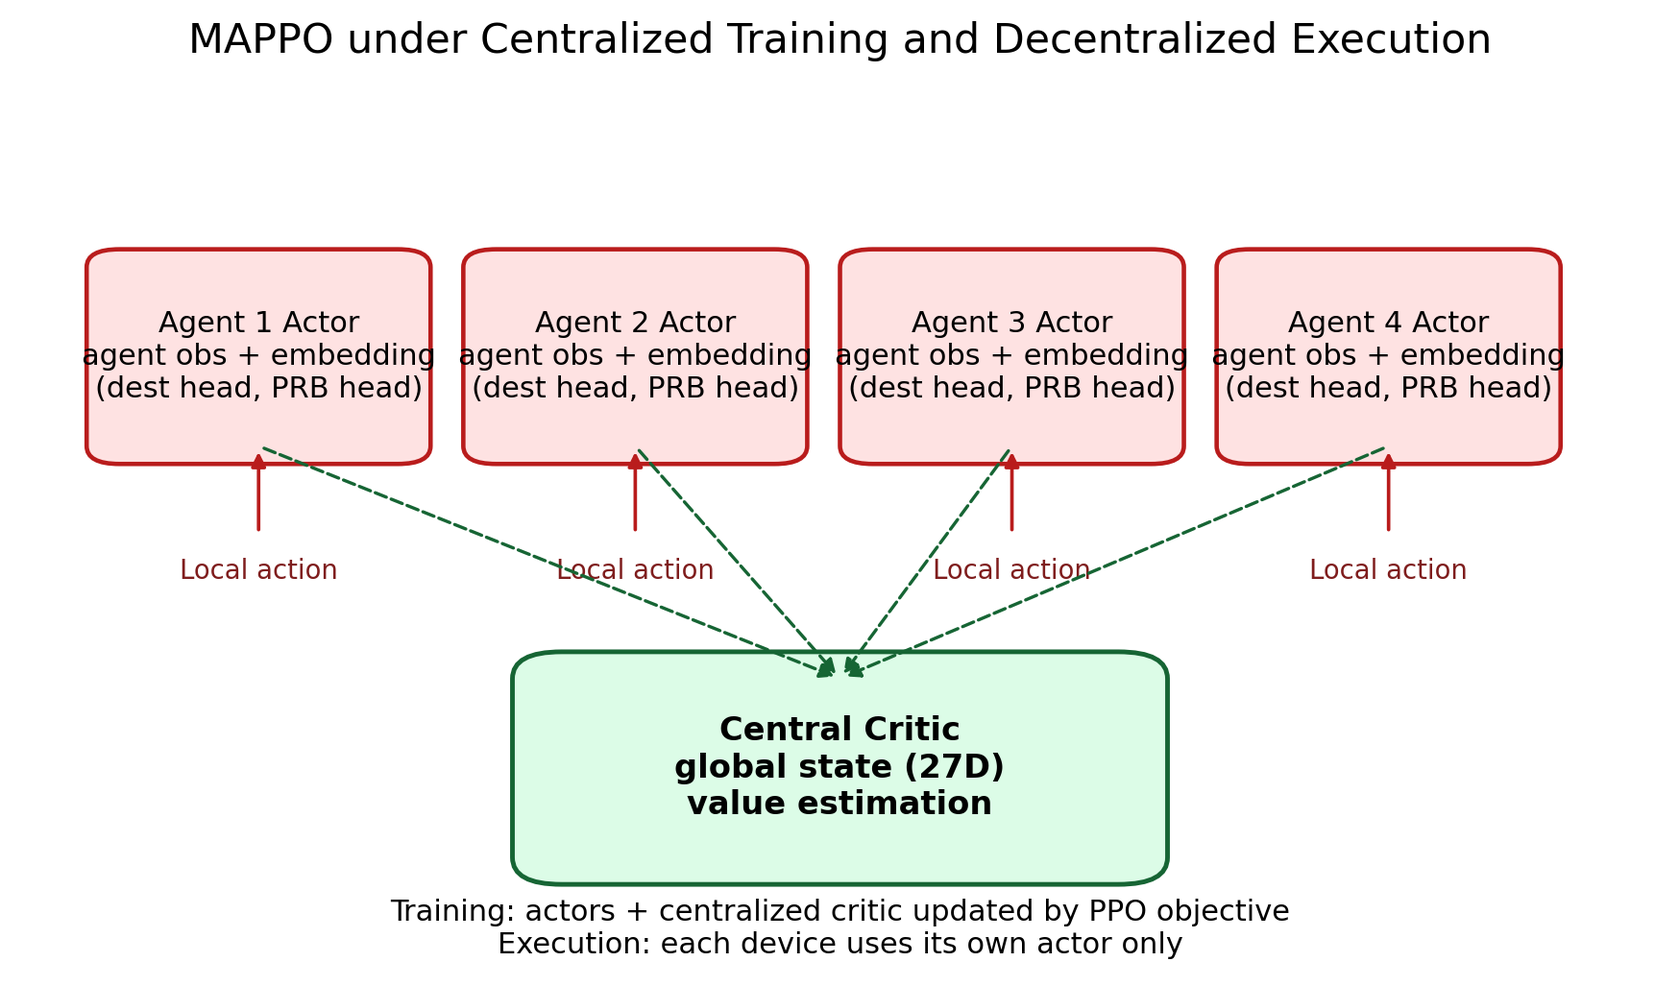
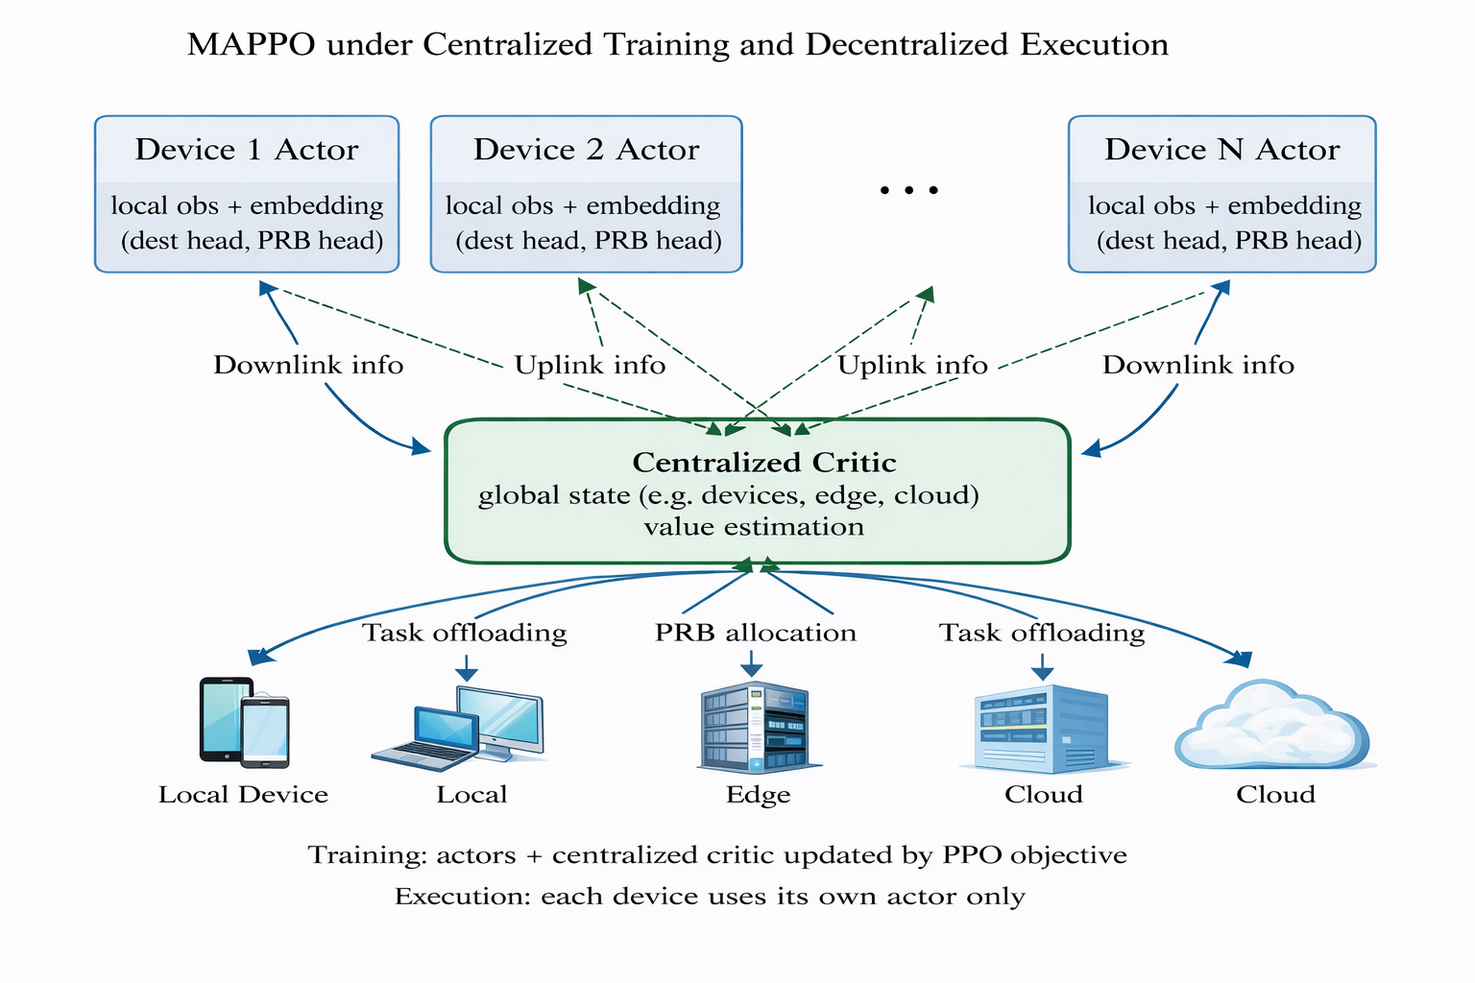
修改4.1

diff --git a/EE5003_Report/contents/methodology.tex b/EE5003_Report/contents/methodology.tex
@@ -5,7 +5,7 @@
 \subsection{MAPPO Framework Overview}
 \label{subsec:mappo-overview}
 
-The proposed method follows the centralized training with decentralized execution (CTDE) paradigm. During training, a centralized critic observes the global simulator state and provides a learning signal that captures system-wide congestion, load balance, and PRB usage. During execution, each device acts independently based only on its own local observation and the feasible-destination mask. This separation is well suited to the target edge-computing scenario because global state is available during simulation and offline training, but real-time deployment should avoid a centralized bottleneck.
+The proposed scheduler follows the centralized training with decentralized execution (CTDE) paradigm. During training, a centralized critic observes a global simulator state and evaluates device actions under system-wide congestion, load imbalance, and PRB utilization. During execution, each device acts independently using only its own local observation and the feasible-destination mask. This separation matches the target edge-computing scenario well: rich global information is available during simulation and offline learning, whereas online deployment should avoid a centralized decision bottleneck.
 
 \begin{figure}[htbp]
     \centering
@@ -14,31 +14,31 @@ The proposed method follows the centralized training with decentralized executio
     \label{fig:mappo-ctde-framework}
 \end{figure}
 
-Every task-generating device is treated as one agent. In the current MAPPO version, the multi-agent formulation is strengthened in three concrete ways. First, the actor uses a learnable agent embedding so that different devices do not have to share one undifferentiated latent representation. Second, the centralized critic no longer receives only the static 27-dimensional system summary; it is augmented with recent joint-action telemetry that records how all agents have been choosing destinations and PRB bins over the latest decision window. Third, fallback-aware training is used: destination fallbacks are penalized, and fallback transitions are excluded from the policy-update buffer so that PPO updates remain on-policy. When a new task reaches the orchestrator, the corresponding agent receives its observation, selects an execution destination, and, if the task is offloaded, selects a PRB allocation level. The environment then applies the action, executes the task in PureEdgeSim, and returns the resulting reward and transition record to the learner.
+Each task-generating device is treated as one agent. When a new task reaches the orchestrator, the corresponding agent receives its observation, selects an execution destination, and, if the task is offloaded, selects a PRB allocation level. The environment then resolves the action, executes the task in PureEdgeSim, and returns a task-level transition to the learner. The final framework used in this report incorporates three design choices to improve coordination quality. First, the actor uses a learnable agent embedding so that different devices need not share one undifferentiated latent representation. Second, the centralized critic augments the 27-dimensional global state with recent joint-decision telemetry summarizing destination and PRB selections over the latest decision window. Third, training is fallback-aware: if the environment replaces a requested destination with a feasible fallback, the transition is penalized in the reward and excluded from PPO updates so that policy optimization remains on-policy.
 
-The design choice of a single dual-head actor contrasts with two alternative decomposition strategies found in prior work. Sun and He \cite{sun2023hdmappo} use a hierarchical two-level MAPPO in which a high-level agent selects the offloading destination and a separate low-level agent decides the offloading ratio. While this decomposition reduces the action space per agent, it introduces additional complexity in coordinating the two levels and requires careful design of the interface between high-level and low-level policies. By contrast, the dual-head actor used in this report handles both destination and PRB selection within a single forward pass, which simplifies training and avoids the need for hierarchical reward shaping. Similarly, Ke \emph{et al.} \cite{ke2022demadrl} use fully decentralized DDQN agents with no centralized critic, which avoids the communication overhead of centralized training but sacrifices the coordination benefits of shared global information. The CTDE paradigm adopted here strikes a balance: agents act independently at execution time (no communication bottleneck), but training exploits a centralized critic that observes system-wide congestion and PRB usage to guide cooperative behavior. This design is particularly well suited to the 160-device scale studied in this report, where explicit coordination through a centralized critic becomes increasingly valuable as the number of interacting agents grows.
+The use of a single dual-head actor differs from two common alternatives in the literature. Sun and He \cite{sun2023hdmappo} adopt a hierarchical MAPPO design in which a high-level agent selects the offloading destination and a low-level agent determines the offloading ratio. Although such decomposition reduces the action space handled by each policy, it also introduces extra coordination complexity between the two levels. In contrast, the actor in this report performs destination selection and PRB selection within one forward pass, which keeps the learning pipeline simpler and avoids additional hierarchical reward shaping. Ke et al. \cite{ke2022demadrl} instead use fully decentralized DDQN agents without a centralized critic. That design removes centralized training overhead, but it also sacrifices the coordination benefit of shared system-level information. The CTDE formulation adopted here provides a more suitable balance for dense edge-cloud scheduling: execution remains decentralized, while training can still exploit global information to learn cooperative behaviour.
 
 \subsection{Observation and State Design}
 \label{subsec:observation-state}
 
-The observation design follows the structure implemented in \texttt{DeviceAgentDecisionSupport}. For agent \(i\), the local input is
+The observation design follows the structure implemented in the decision-support module \texttt{DeviceAgentDecisionSupport}. For agent \(i\), the local input is
 \begin{align}
 o_i = \left(x_i, D_i, m_i\right),
 \end{align}
 where \(x_i \in \R^{13}\) is the device-level feature vector, \(D_i \in \R^{N_d \times 11}\) is the destination-feature matrix, and \(m_i \in \{0,1\}^{N_d}\) is the destination-feasibility mask.
 
-The 13-dimensional agent feature vector combines normalized task descriptors, source-device resource indicators, and PRB-availability terms. The destination matrix contains one 11-dimensional feature vector for each candidate destination. The candidates are ordered consistently as local execution first, then edge data centers sorted by data-center identifier, and finally cloud destinations. Each destination feature summarizes its load, compute capacity, estimated finish-over-deadline ratio, distance, network admissibility, destination type, and estimated PRB demand.
+The 13-dimensional agent feature vector combines normalized task descriptors, source-device resource indicators, and PRB-availability terms. The destination matrix contains one 11-dimensional feature vector for each candidate destination. Candidates are ordered consistently as local execution first, followed by edge data centers sorted by data-center identifier, and finally cloud destinations. Each destination feature summarizes its load, compute capacity, estimated finish-over-deadline ratio, distance, network admissibility, destination type, and estimated PRB demand.
 
 The critic uses a two-level state representation. The base global state is a 27-dimensional vector,
 \begin{align}
 s_{\mathrm{base}} \in \R^{27},
 \end{align}
-that aggregates system-wide load indicators, PRB usage, task statistics, and tier-level summaries across the local, edge, and cloud layers. In the updated MAPPO implementation, this base state is augmented with two recent-decision histograms:
+that aggregates system-wide load indicators, PRB usage, task statistics, and tier-level summaries across the local, edge, and cloud layers. For MAPPO, this base state is further augmented with two recent-decision histograms:
 \begin{align}
 s_{\mathrm{aug}} = \left[s_{\mathrm{base}}; h^{\mathrm{dest}}; h^{\mathrm{prb}}\right]
 \in \R^{27 + N_d + 8},
 \end{align}
-where \(h^{\mathrm{dest}} \in \R^{N_d}\) stores the normalized destination-selection frequencies over the latest 200 decisions and \(h^{\mathrm{prb}} \in \R^{8}\) stores the corresponding PRB-bin frequencies. Under the current topology, \(N_d = 6\) because the candidate set contains one local option, four edge data centers, and one cloud destination. Therefore, the actual critic input used by MAPPO in the reported experiments is \(27 + 6 + 8 = 41\) dimensions. Intuitively, the actor still solves a partially observed local decision problem, while the critic evaluates each action against both the global system state and a compact summary of what the other agents have been doing recently.
+where \(h^{\mathrm{dest}} \in \R^{N_d}\) stores the normalized destination-selection frequencies over the latest 200 decisions and \(h^{\mathrm{prb}} \in \R^{8}\) stores the corresponding PRB-bin frequencies. Under the reported topology, \(N_d = 6\) because the candidate set contains one local option, four edge data centers, and one cloud destination. The MAPPO critic therefore receives a 41-dimensional input. Intuitively, the actor still solves a partially observed local decision problem, whereas the critic evaluates each action against both the global system state and a compact summary of recent collective behaviour.
 
 To make the feature design explicit, \Tabref{tab:agent-observation-features} summarizes the 13 local observation dimensions and \Tabref{tab:destination-global-features} summarizes the destination feature matrix together with the base-state and telemetry components.
 
@@ -53,7 +53,7 @@ To make the feature design explicit, \Tabref{tab:agent-observation-features} sum
         9--12 & Reachable-edge count, remaining PRB ratio, normalized simulation time, and normalized affordable PRB ceiling. \\
         \hline
     \end{tabular}
-    \caption{Agent-observation dimensions implemented in \texttt{DeviceAgentDecisionSupport}.}
+    \caption{Agent-observation dimensions used by the decision-support module.}
     \label{tab:agent-observation-features}
 \end{table}
 
@@ -76,7 +76,7 @@ To make the feature design explicit, \Tabref{tab:agent-observation-features} sum
     \label{tab:destination-global-features}
 \end{table}
 
-The destination mask plays a central role in maintaining valid actions. If a destination is out of coverage, lacks a feasible VM, or violates offloading constraints, its mask value is set to zero and the corresponding action logit is suppressed before sampling. This masked policy is more sample efficient than allowing invalid actions and penalizing them afterward.
+The destination mask plays a central role in maintaining valid actions. If a destination is out of coverage, lacks a feasible VM, or violates offloading constraints, its mask value is set to zero and the corresponding action logit is suppressed before sampling. This mask-aware policy is more sample efficient than allowing invalid actions to be sampled and penalizing them only afterward.
 
 \subsection{Action Space Design}
 \label{subsec:action-space}
@@ -89,11 +89,11 @@ The destination head selects one element from the ordered candidate list. The PR
 \begin{align}
 \rho \in \{0.02, 0.05, 0.10, 0.20, 0.40, 0.60, 0.80, 1.00\}.
 \end{align}
-Given the simulator setting \(\texttt{maxPerTask}=50\), the selected ratio is converted into an integer reservation capped at 50 blocks.
+Under the reported simulator setting \(\texttt{maxPerTask}=50\), the selected ratio is converted into an integer reservation capped at 50 blocks.
 
-If the chosen destination is local execution, the PRB action is ignored and replaced by zero because no wireless upload is required. In the implementation, the PRB log-probability and entropy contributions are also neutralized for such local actions so that the policy is not penalized for an irrelevant bandwidth choice.
+If the chosen destination is local execution, the PRB action is ignored and replaced by zero because no wireless upload is required. In the implementation, the PRB log-probability and entropy contributions are also neutralized for such local actions so that the policy is not affected by an irrelevant bandwidth decision.
 
-Although destination masking prevents most invalid actions, a final destination fallback rule is retained for robustness. If the sampled action still points to an infeasible destination at execution time, the system falls back to the feasible destination with the shortest estimated completion time. In the final MAPPO evaluation runs used in this report, the fallback count is zero across all three seeds, indicating that the trained policy learns to stay within the valid action region.
+Although destination masking prevents most invalid actions, a final destination fallback rule is retained for runtime robustness. If the sampled action still points to an infeasible destination at execution time, the system replaces it with the feasible destination that has the shortest estimated completion time. This mechanism protects the simulator from transient infeasibility while preserving a clear distinction between the requested action and the executed action.
 
 \subsection{Network Architecture}
 \label{subsec:network-architecture}
@@ -137,11 +137,11 @@ The centralized critic takes the augmented global state as input and outputs one
 \begin{align}
 V_{\phi}(s_{\mathrm{aug}}) = f_{\phi}^{\mathrm{critic}}(s_{\mathrm{aug}}).
 \end{align}
-The critic uses a two-layer MLP with hidden size 256 and \(\tanh\) activations. For the reported 6-destination scenario, the input dimension is therefore 41 rather than 27. This change is central to the updated MAPPO design: the critic no longer evaluates a device action only against static load and PRB summaries, but also against recent joint behavior of the full agent population. Because the critic sees aggregated system information that is unavailable to an individual device, it can provide a more coordination-aware baseline for policy optimization than a purely local value function.
+The critic uses a two-layer MLP with hidden size 256 and \(\tanh\) activations. For the reported 6-destination scenario, the input dimension is therefore 41 rather than 27. This augmented critic is central to the MAPPO design adopted here: instead of evaluating an action only against static load and PRB summaries, it also conditions on recent joint behaviour of the agent population. Because the critic observes information that is unavailable to any single device, it can provide a more coordination-aware baseline for policy optimization than a purely local value function.
 
 \subsubsection{PPO Baseline Actor}
 
-The PPO baseline shares the same destination encoder, PRB head, and overall dual-head logic, but removes the learnable agent embedding. Its actor receives only the raw 13-dimensional device observation before constructing the same destination-conditioned hidden states. In addition, PPO keeps the original 27-dimensional critic state instead of the telemetry-augmented 41-dimensional MAPPO state. As a result, PPO must represent all device roles through one shared feature space and one shared value context, whereas MAPPO can condition policy evaluation on both explicit agent identity and recent multi-agent coordination statistics. These are the main controlled distinctions between the two RL methods.
+The PPO baseline shares the same destination encoder, PRB head, and overall dual-head decision logic, but removes the learnable agent embedding. Its actor receives only the raw 13-dimensional device observation before constructing the same destination-conditioned hidden states. In addition, PPO keeps the original 27-dimensional critic state instead of the telemetry-augmented 41-dimensional MAPPO state. The comparison between PPO and MAPPO therefore isolates two main differences: whether device identity is explicitly modelled in the actor, and whether the critic observes recent multi-agent coordination statistics.
 
 \subsection{Reward Function Design}
 \label{subsec:reward-function}
@@ -151,7 +151,9 @@ The reward is defined at the task level:
 R =
 \begin{cases}
 -5.0, & \text{if the task fails}, \\
-5.0 - 1.0 \cdot latencyRatio - 2.0 \cdot energyNorm - 1.5 \cdot networkCost - fallbackPenalty,
+5.0 - 1.0 \cdot latencyRatio - 2.0 \cdot energyNorm
+\notag\\
+\quad - 1.5 \cdot networkCost - fallbackPenalty,
 & \text{if the task succeeds}.
 \end{cases}
 \label{eq:reward}
@@ -171,7 +173,7 @@ fallbackPenalty &=
 \end{cases}
 \end{align}
 
-This formulation explicitly favors deadline satisfaction while still discouraging wasteful wireless reservations, excessive transmission energy, and policy choices that require environment-side fallback. A failed task receives a fixed negative reward because lateness, mobility loss, or network failure all indicate a clear scheduling breakdown. For successful tasks, the positive base reward is gradually reduced according to delay, energy, PRB cost, and fallback. Compared with the earlier P95-normalized energy penalty, the current version uses online standardization through an exponential moving average with \(\alpha = 0.01\), which makes unusually energy-hungry decisions more visible to the learner.
+This formulation explicitly prioritizes deadline satisfaction while still discouraging wasteful wireless reservations, excessive transmission energy, and policy choices that trigger environment-side fallback. A failed task receives a fixed negative reward because lateness, mobility loss, or network failure all indicate a clear scheduling breakdown. For successful tasks, the positive base reward is reduced according to delay, energy, PRB cost, and fallback. Compared with a fixed normalization scheme, the present implementation standardizes energy online through an exponential moving average with \(\alpha = 0.01\), which makes unusually energy-hungry decisions more visible to the learner as operating conditions evolve.
 
 \subsection{Training Algorithm}
 \label{subsec:training-algorithm}
@@ -181,27 +183,27 @@ Policy optimization follows the clipped PPO objective \cite{schulman2017ppo}. Fo
 L^{\mathrm{clip}}(\theta) =
 \E_t \left[
 \min \left(
-r_t(\theta)\hat{A}_t,\,
-\mathrm{clip}(r_t(\theta), 1-\epsilon, 1+\epsilon)\hat{A}_t
+\rho_t(\theta)\hat{A}_t,\,
+\mathrm{clip}(\rho_t(\theta), 1-\epsilon, 1+\epsilon)\hat{A}_t
 \right)
 \right],
 \end{align}
 where
 \begin{align}
-r_t(\theta) =
+\rho_t(\theta) =
 \frac{\pi_{\theta}(a_t \mid o_t)}{\pi_{\theta_{\mathrm{old}}}(a_t \mid o_t)}.
 \end{align}
 
-For the finalized training artifact used in this report, the implementation adopts a one-step event-level advantage rather than a long-horizon bootstrapped estimator. Specifically, the update code uses
+For the finalized training setup used in this report, the implementation adopts a one-step event-level advantage rather than a long-horizon bootstrapped estimator. Specifically, the update uses
 \begin{align}
-R_t &= r_t, \\
+G_t &= r_t, \\
 \hat{A}_t &= r_t - V_{\phi}(s_t),
 \end{align}
-followed by minibatch normalization of \(\hat{A}_t\). This choice matches the event-driven nature of the environment: each transition already corresponds to a largely self-contained offloading transaction whose reward summarizes latency, energy, and PRB usage after the task outcome is known. The shared Python utilities still contain a generic GAE helper for future extensions, but the MAPPO and PPO runs reported here use the immediate-return form above.
+followed by minibatch normalization of \(\hat{A}_t\). This choice matches the event-driven nature of the environment: each transition corresponds to a largely self-contained offloading transaction whose reward is available after the task outcome is known. The shared Python utilities still contain a generic GAE helper for future extensions, but the MAPPO and PPO runs reported here use the immediate-return form above.
 
-One additional implementation detail is critical for the updated MAPPO stability. If the environment replaces the requested destination with a feasible fallback, that transition is not inserted into the MAPPO update buffer. Otherwise, the PPO ratio would be computed against an action that the policy did not actually sample. For non-fallback transitions, the training code recomputes the log-probability using the original Python action rather than the post-resolution executed action. Together with the mask-aware default destination on timeout and the longer action timeouts used during training and offline inference, this removes an important source of off-policy noise that affected the earlier implementation.
+One additional implementation detail is important for MAPPO stability. If the environment replaces the requested destination with a feasible fallback, that transition is not inserted into the MAPPO update buffer. Otherwise, the PPO ratio would be computed against an action that the policy did not actually sample. For non-fallback transitions, the training code recomputes the log-probability using the original Python action rather than the post-resolution executed action. This design removes a direct source of off-policy noise from the update rule.
 
-Entropy regularization is linearly annealed from 0.02 to 0.002, encouraging exploration early in training and sharper decisions later. The main hyperparameters are listed in \Tabref{tab:training-hyperparameters}. Several of these choices are informed by the systematic study of Yu \emph{et al.} \cite{yu2022surprising}, which identifies five critical implementation factors for PPO in cooperative multi-agent settings. In particular, the clipping range \(\epsilon = 0.1\) stays within their recommended bound of \(\epsilon < 0.2\); the number of PPO epochs per update (4) falls within their suggested range of 5--10 for hard tasks; and the centralized critic input combines both global system features and agent-specific local information, following their finding that the AS (agent-specific global state) representation consistently outperforms alternatives that use only local observations or only environment-provided global state.
+Entropy regularization is linearly annealed from 0.02 to 0.002, encouraging exploration early in training and sharper decisions later. The main hyperparameters are listed in \Tabref{tab:training-hyperparameters}. Several of these choices follow stable PPO implementation practices discussed by Yu \emph{et al.} \cite{yu2022surprising}, particularly the use of a relatively small clipping range \(\epsilon = 0.1\) and a centralized critic that combines system-level context with agent-specific local information.
 
 \begin{table}[htbp]
     \centering
@@ -235,8 +237,8 @@ Algorithmically, one training episode proceeds as follows.
     \item Java starts a 30-minute PureEdgeSim episode and exposes the MARL interface through \texttt{RLEnvServer}.
     \item Every time a task reaches the orchestrator, the active device sends a masked local observation to Python.
     \item Python samples a destination and PRB action, sends the decision back, and stores the resulting transition.
-    \item At the end of the episode, the centralized critic computes values, advantages are estimated, and PPO updates the actor and critic for four epochs.
+    \item At the end of the episode, the centralized critic computes values, advantages are estimated and normalized, and PPO updates the actor and critic for four epochs.
     \item The best-performing checkpoints are then reused for offline inference and multi-seed evaluation.
 \end{enumerate}
 
-The resulting method preserves decentralized execution at deployment time while still exploiting centralized information during training, which is the key reason MAPPO is attractive for large, interacting edge-computing systems.
+Overall, the proposed method preserves decentralized execution at deployment time while still exploiting centralized information during training, allowing the policy to internalize network coupling and resource contention in a scalable way.
